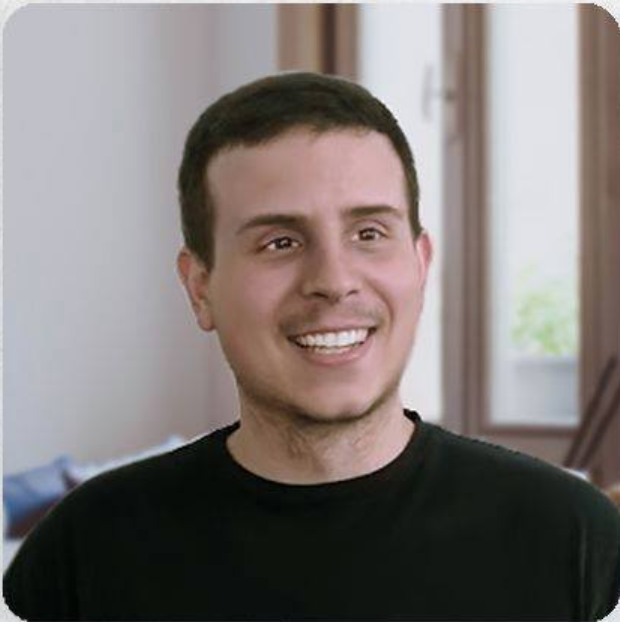
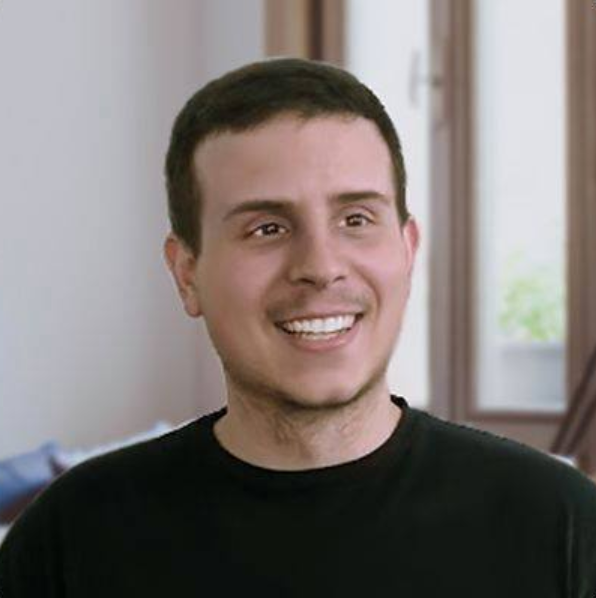
removed about-theme.jpg, changed header theme to just theme and am using it for both the header and about sections. Cropped the profile photo to eliminate the non transparent corners.

diff --git a/css/style.css b/css/style.css
@@ -1,7 +1,7 @@
 #top {
     text-align: center;
     /*background-color: #18bc9c!important;*/
-    background-image: url("../image/header-theme.jpg");
+    background-image: url("../image/theme.jpg");
     background-repeat: no-repeat;
     background-size: cover;
     padding-top: 10%;
@@ -14,7 +14,7 @@
     padding-top: 5%;
     padding-bottom: 10%;
     /*background-color: #18bc9c!important;*/
-    background-image: url("../image/about-theme.jpg");
+    background-image: url("../image/theme.jpg");
     background-repeat: no-repeat;
     background-size: cover;
 }
